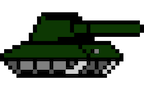
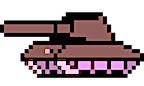
s

diff --git a/empty-example/parabola.js b/empty-example/parabola.js
@@ -1,7 +1,9 @@
 
 let GRAVITY = 1;
-let tanklst = [];
-let soldierlst = [];
+let tanklst = []
+let soldierlst = []
+let tank1lst = [];
+let soldier1lst = [];
 
 function setup() {
   createCanvas(2000,800);
@@ -10,37 +12,77 @@ function setup() {
   platform = createSprite(1000,750);
   platform.addAnimation('normal', 'mountains.png');
 
-  soldier = new Soldier1("first");
+
   tank = new Tank1("first")
+  tank1 = new Tank("first")
 }
 function draw() {
   background("yellow");
 
-  for (let x=0; x<tanklst.length; x++){
-    tanklst[x].move();
-    print("hey")
+  for (let x=0; x<tank1lst.length; x++){
+    tank1lst[x].move();
   }
-  for (let x=0; x<soldierlst.length; x++){
-    soldierlst[x].move();
-    print("hey")
+  for (let x=0; x<soldier1lst.length; x++){
+    soldier1lst[x].move();
+  }
+  for (let x=0;x<tanklst;x++){
+    tanklst[x].move()
+  }
+  for (let x=0;x<soldierlst;x++){
+    soldierlst[x].move()
   }
 
-  soldier.move()
   tank.move()
+  tank1.move()
 }
 
 function keyPressed() {
   if (keyCode == UP_ARROW){
-    let t = new Tank1("tank");
-    tanklst.push(t);
+    let t1 = new Tank1("tank");
+    tank1lst.push(t1);
   }
   if (keyCode == DOWN_ARROW){
-    let s = new Soldier1("soldier");
-    soldierlst.push(s);
+    let s1 = new Soldier1("soldier");
+    soldier1lst.push(s1);
+  }
+  if (keyCode == UP_ARROW){
+    let s = new Soldier("soldier");
+    solderlet.push(s)
+    console.log("created")
+  }
+  if (keyCode == 50){
+    let t = new Tank("tank");
+    tanklst.push(t)
+    console.log("created")
   }
 
-}
 
+}
+class Soldier{
+  constructor(name){
+    this.x = 1000;
+    this.y = 100;
+    this.name = createSprite(this.x,this.y);
+    this.name.addAnimation('normal', 'soldier.png');
+  }
+  move(){
+    this.name.velocity.x = 0
+    if(platform.overlapPixel(this.name.position.x, this.name.position.y+25)==false){
+      this.name.velocity.y += GRAVITY;
+    }
+    while(platform.overlapPixel(this.name.position.x, this.name.position.y+25)){
+      this.name.position.y--;
+      this.name.velocity.y = 0;
+    }
+    if (keyIsDown(65)){
+      this.name.velocity.x = 5;
+    }
+    if (keyIsDown(68)){
+      this.name.velocity.x = -5;
+    }
+    drawSprites();
+  }
+}
 class Soldier1{
   constructor(name){
     this.x = 10;
@@ -67,12 +109,38 @@ class Soldier1{
   }
 }
 
+class Tank2{
+  constructor(name){
+    this.x = 1000;
+    this.y = 100;
+    this.name = createSprite(this.x,this.y);
+    this.name.addAnimation('normal', 'tank.png');
+  }
+  move(){
+    this.name.velocity.x = 0
+    if(platform.overlapPixel(this.name.position.x, this.name.position.y+25)==false){
+      this.name.velocity.y += GRAVITY;
+    }
+    while(platform.overlapPixel(this.name.position.x, this.name.position.y+25)){
+      this.name.position.y--;
+      this.name.velocity.y = 0;
+    }
+    if (keyIsDown(65)){
+      this.name.velocity.x = 5;
+    }
+    if (keyIsDown(68)){
+      this.name.velocity.x = -5;
+    }
+    drawSprites();
+  }
+}
+
 class Tank1{
   constructor(name){
     this.x = 10;
     this.y = 100;
     this.name = createSprite(this.x,this.y);
-    this.name.addAnimation('normal', 'tank.png');
+    this.name.addAnimation('normal', 'tank2.png');
   }
   move(){
     this.name.velocity.x = 0
